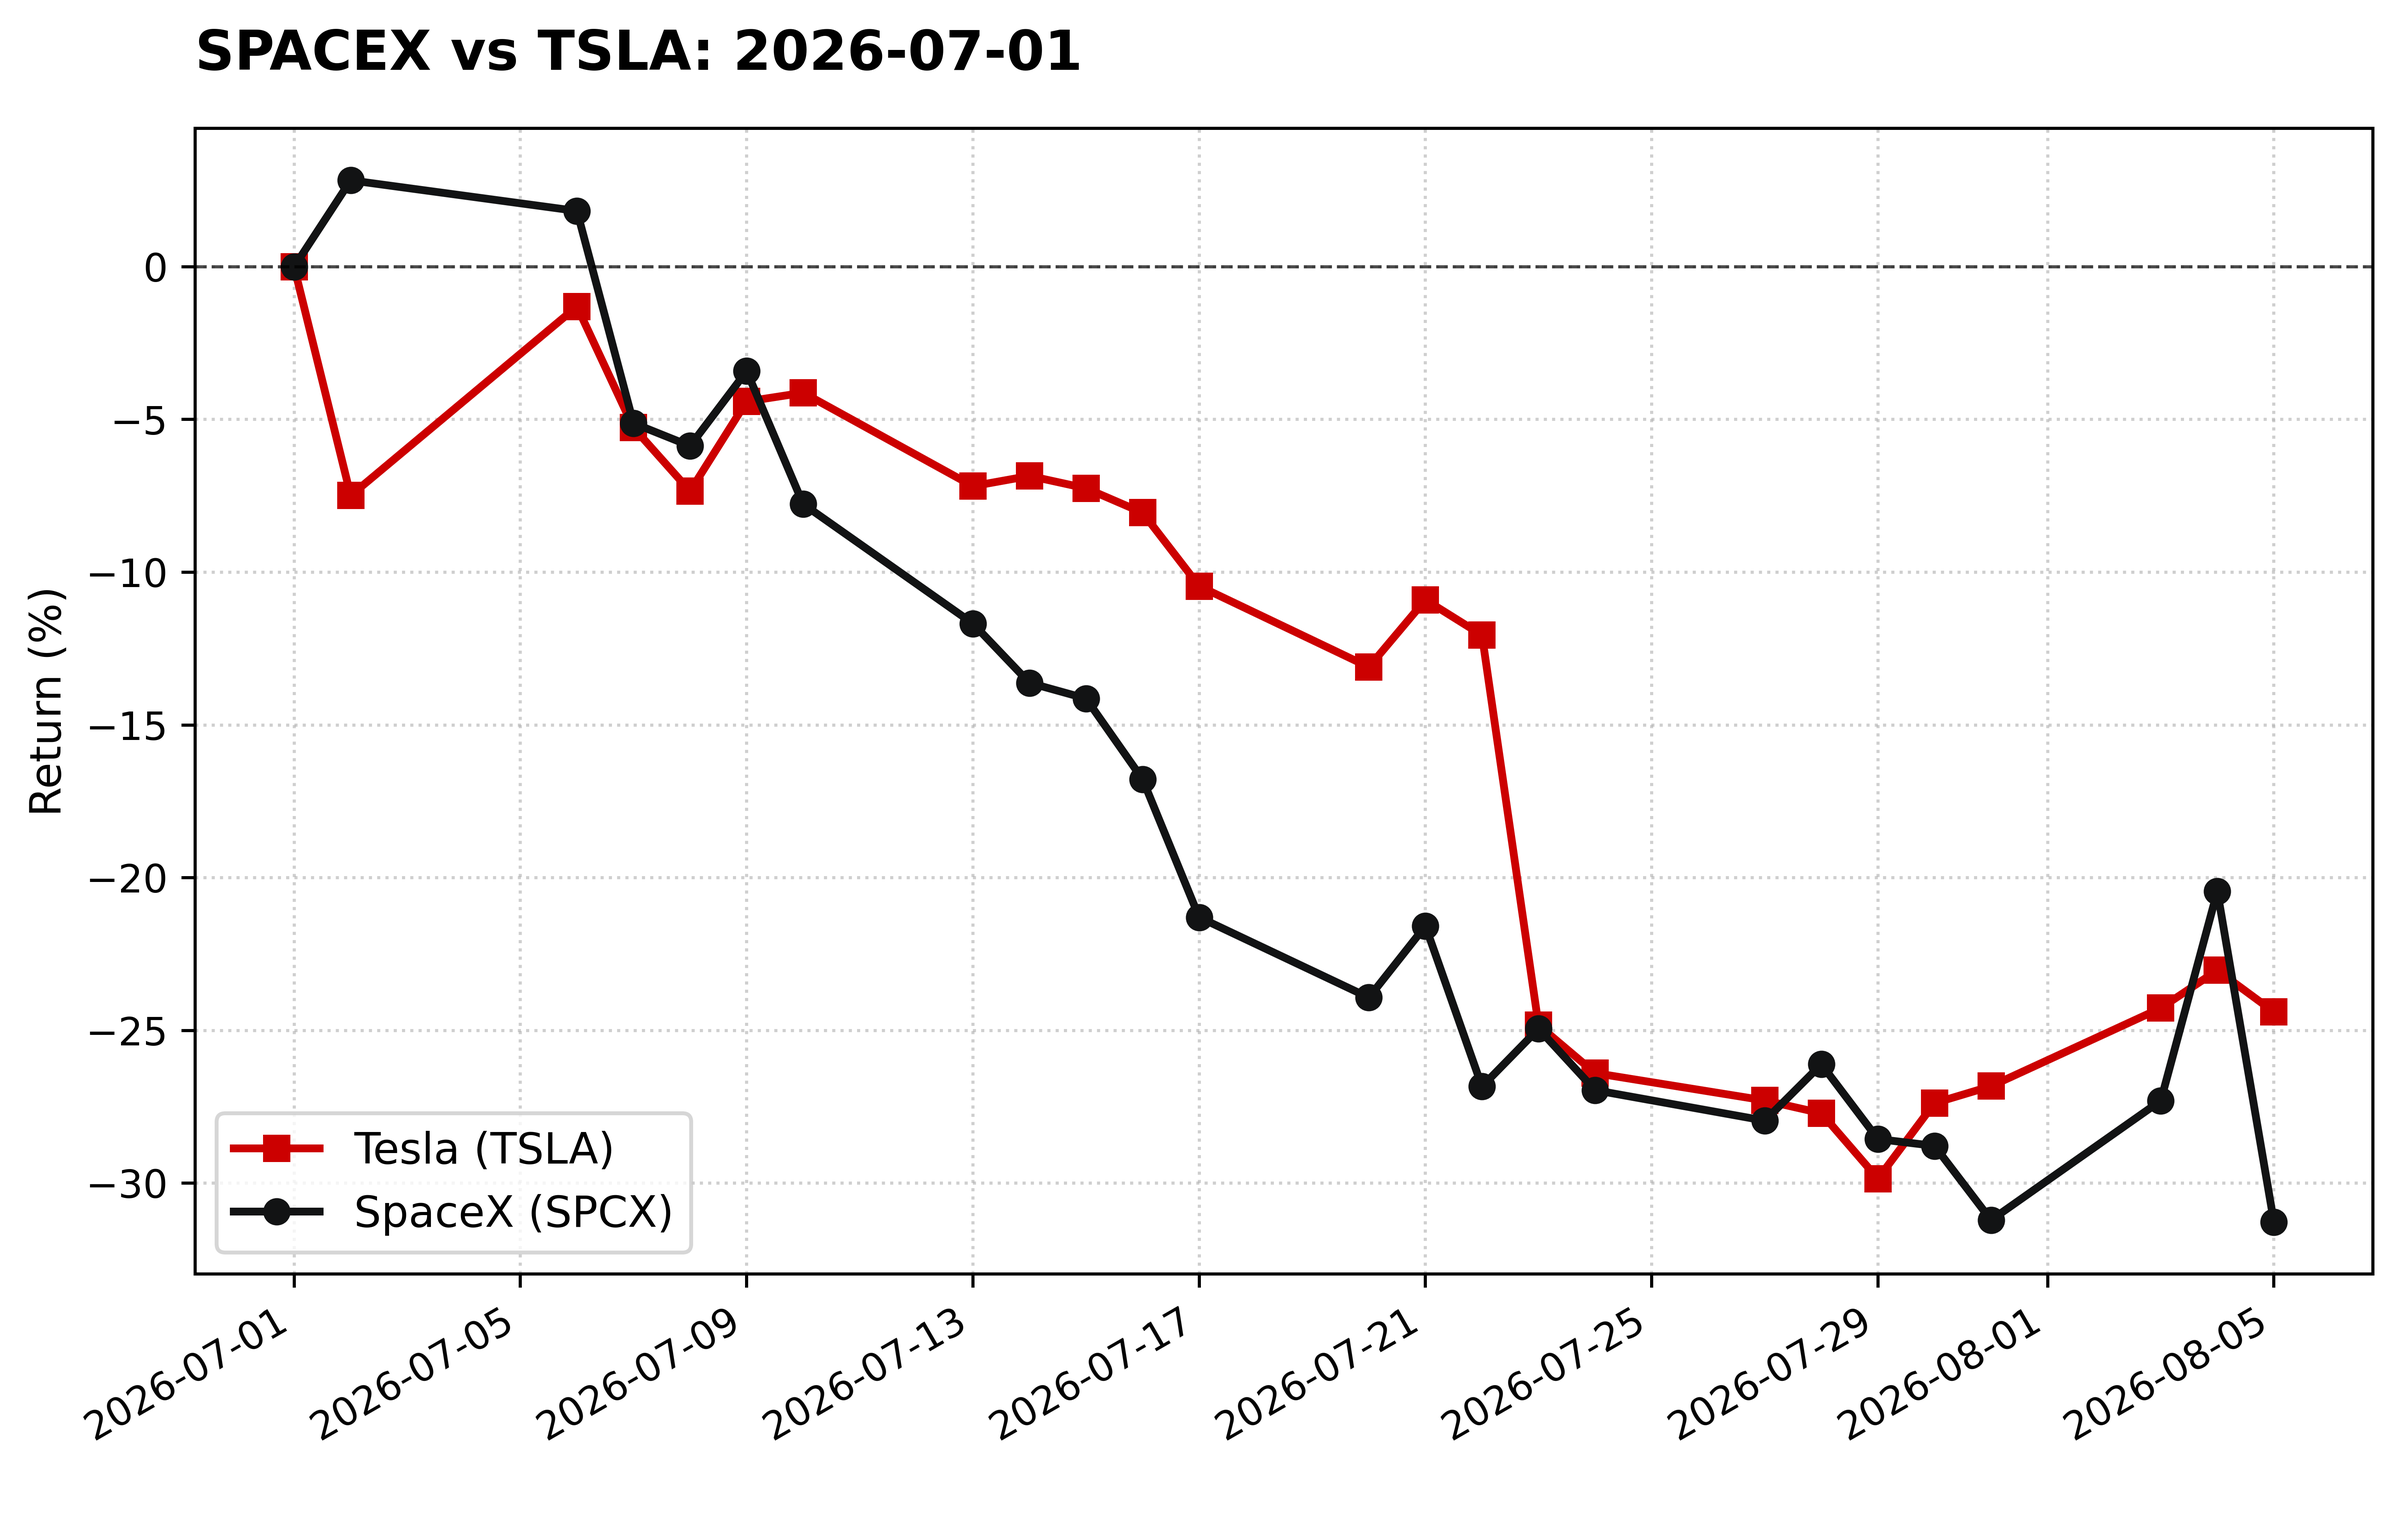
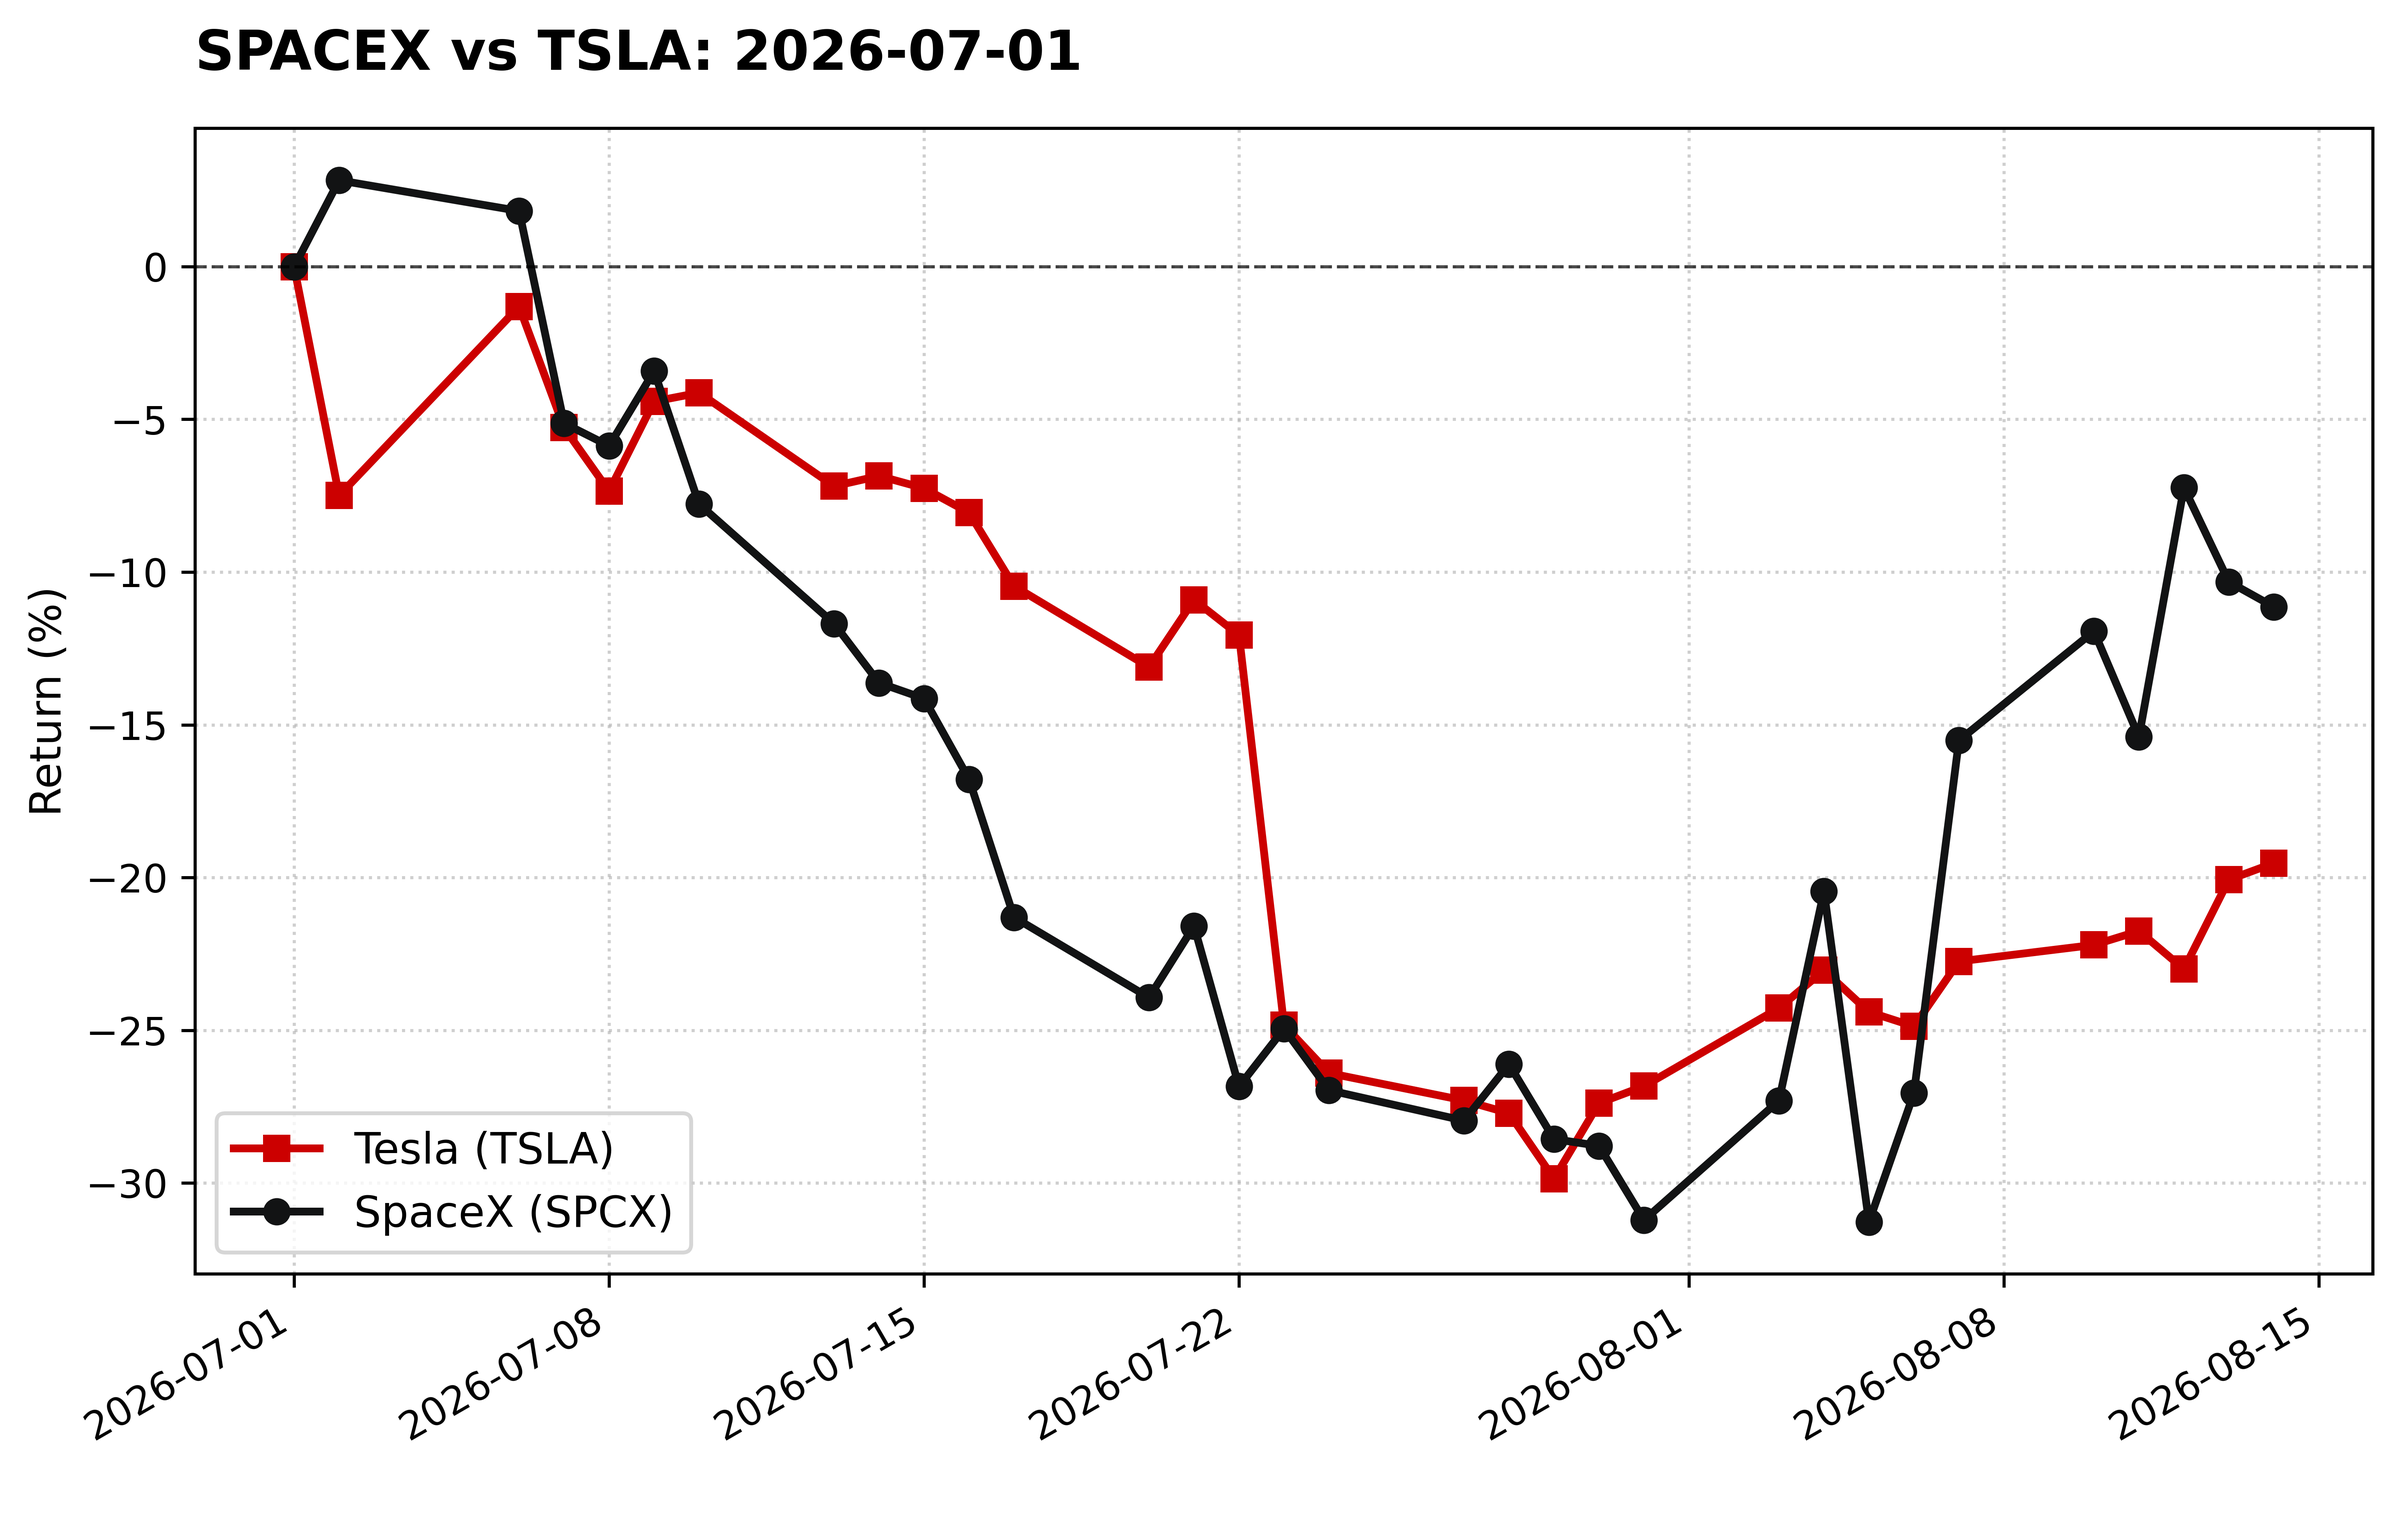
Initial commit

diff --git a/elongate.py b/elongate.py
@@ -5,7 +5,7 @@ import pandas as pd
 # 1. Define the tickers and the timeframe
 tickers = ["TSLA", "SPCX"]
 start_date = "2026-07-01"
-end_date = "2026-08-05"  # Requested inclusive end date
+end_date = "2026-08-14"  # Requested inclusive end date
 
 # yfinance treats the `end` parameter as exclusive. To include `end_date`
 # in the downloaded range, add one day to the end date.

diff --git a/spcx_tsla.py b/spcx_tsla.py
@@ -9,7 +9,7 @@ import yfinance as yf
 
 # Fetch data starting from June 22, 2026
 start_date = "2026-06-12"
-end_date = "2026-08-05"  # Requested inclusive end date 
+end_date = "2026-08-14"  # Requested inclusive end date 
 
 # yfinance treats the `end` parameter as exclusive. To include `end_date`,
 # add one day and use that as the `end` argument.
